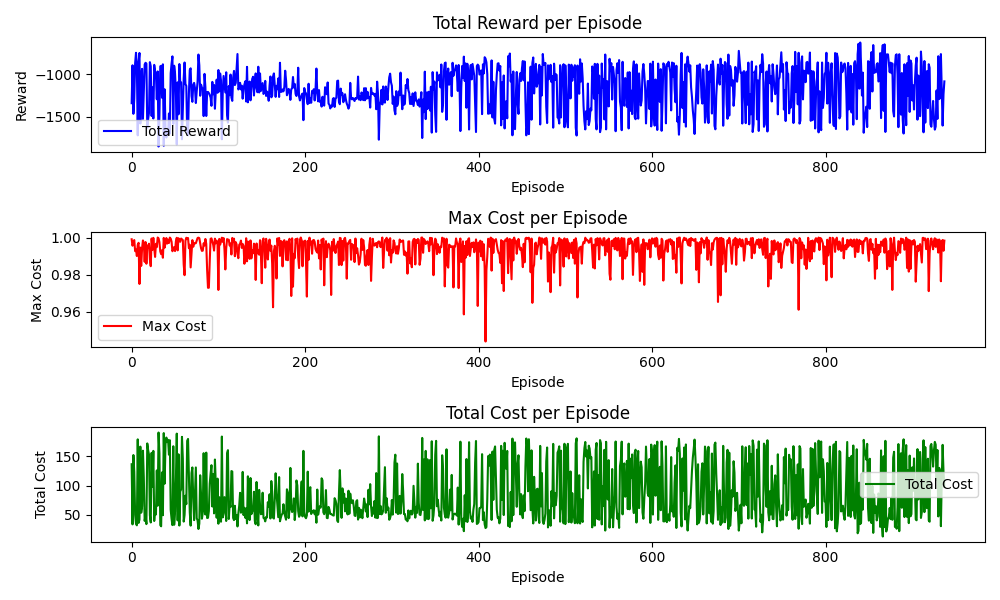
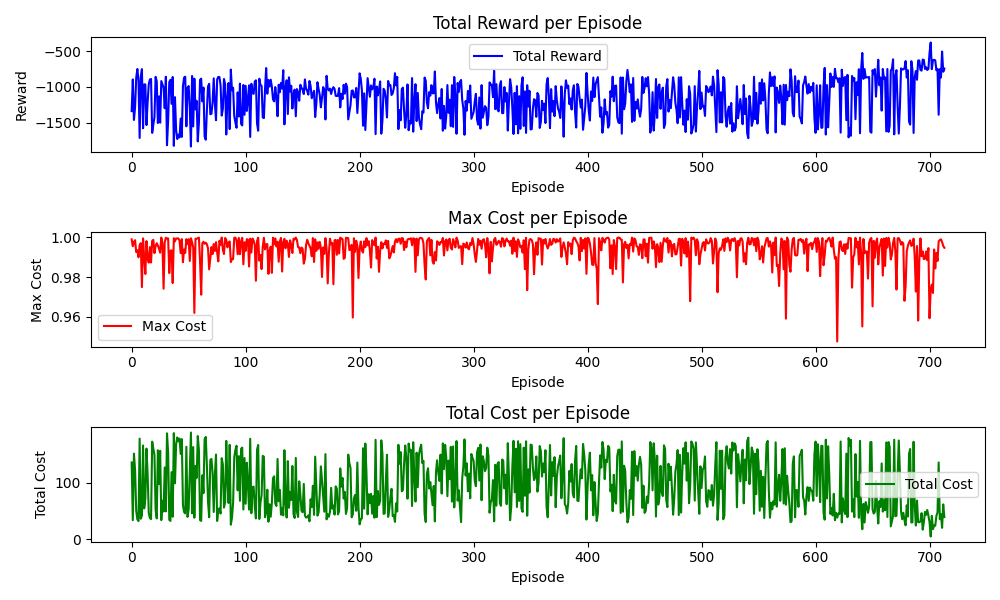
simulated next state

diff --git a/code_ipm_rcmdp_rcrl_max_pendulum2.py b/code_ipm_rcmdp_rcrl_max_pendulum2.py
@@ -566,7 +566,7 @@ class Robust_RCAC_NPG:
                 # vl_pi = self.persistent_safety_function(
                 #     trajectory, self.actor, self.Ccritic, self.gamma
                 # )
-                vl_pi = vcs.mean()
+                vl_pi = vcs.max()
                 # penalty_term = max(0, vl_pi - self.persistent_eps)  # Apply penalty only if V_L(pi) > epsilon_tolerance
                 penalty_term = vl_pi - torch.tensor(self.persistent_eps)
                 beta_penalty = self.beta * penalty_term
@@ -651,7 +651,8 @@ class Robust_RCAC_NPG:
                     # Calculate n as the step count in the current trajectory
                     n = original_index - trajectory_indices[trajectory_num] + 1  # Step count within the current trajectory
                     # Use n for GAE calculation
-                    gae = (A_max - vcs[trajectory_indices[trajectory_num]]) * self.lamda ** n  
+                    # gae = (A_max - vcs[trajectory_indices[trajectory_num]]) * self.lamda ** n  
+                    gae = (A_max - vc_) * self.lamda ** n  
                     adv.insert(0, gae.item())  # Insert the advantage at the beginning of the list
                 adv = torch.tensor(adv, dtype=torch.float).view(-1, 1)
                 # v_target = adv  # + vcs + self.alpha * a_logprob.sum(dim=1, keepdim=True)

diff --git a/envs/pendulum_v1.py b/envs/pendulum_v1.py
@@ -844,6 +844,27 @@ class PendulumCostEnv(gym.Env):
             pygame.quit()
             self.isopen = False
 
+    def simulate_next_state(self, u):
+        th, thdot = self.state  # th := theta
+
+        g = self.g
+        m = self.m
+        l = self.l
+        dt = self.dt
+
+        u = np.clip(u, -self.max_torque, self.max_torque)[0]
+        self.last_u = u  # for rendering
+        costs = angle_normalize(th) ** 2 + 0.1 * thdot**2 + 0.001 * (u**2)
+
+        newthdot = thdot + (3 * g / (2 * l) * np.sin(th) + 3.0 / (m * l**2) * u) * dt
+        newthdot = np.clip(newthdot, -self.max_speed, self.max_speed)
+        newth = th + newthdot * dt
+
+        
+        # print("normalized_cost, maxpi=", normalized_cost, max_theta)
+        return np.array([np.cos(newth), np.sin(newth), newthdot], dtype=np.float32)
+        # return self._get_obs()
+
 
 def angle_normalize(x):
     return ((x + np.pi) % (2 * np.pi)) - np.pi
